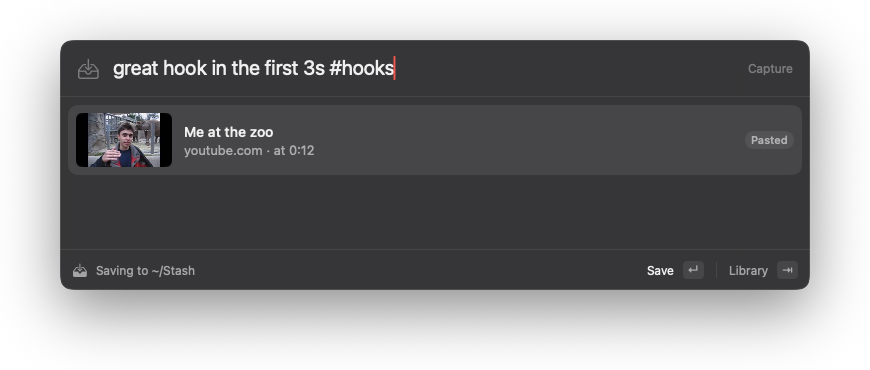
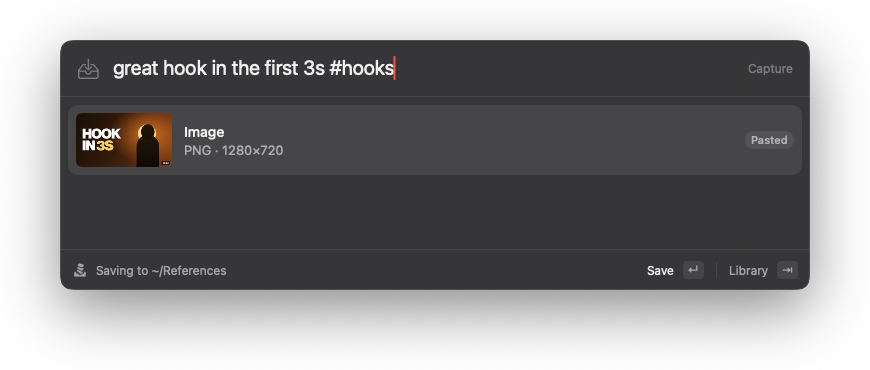
README screenshots with original artwork; newer CI actions
- Retake the Capture, Library and Grid screenshots with a sample library made from the
  promo's original artwork, with metadata fetching off, so they no longer show third-party
  thumbnails or logos.
- DebugHooks: an `image:<path>` token pastes a PNG into Capture from a private pasteboard,
  for staging screenshots without touching the clipboard.
- Bump GitHub Actions (checkout v7, upload-artifact v7, configure/upload/deploy-pages) off the
  deprecated Node 20 runtime.
- Ignore the local .claude/ folder.

Changed region(s): [[0.0621, 0.2973, 0.3724, 0.4757], [0.1862, 0.7135, 0.2793, 0.7432], [0.0621, 0.7135, 0.1241, 0.7432]]

diff --git a/Sources/Stash/App/DebugHooks.swift b/Sources/Stash/App/DebugHooks.swift
@@ -8,7 +8,8 @@ import Carbon.HIToolbox
 /// - `dev.stash.debug.toggle`, object `"capture"` or `"library"`: like pressing the shortcut;
 ///   `"settings"` opens Settings.
 /// - `dev.stash.debug.keys`, object e.g. `"text:hoo down cmd+k esc"`: key presses, in order.
-///   `paste:<text>` pastes into Capture from a private pasteboard (the clipboard isn't touched).
+///   `paste:<text>` pastes into Capture from a private pasteboard (the clipboard isn't touched);
+///   `image:<path>` does the same with a PNG file (the path can't contain spaces).
 @MainActor
 enum DebugHooks {
     static func install(panel: PanelController, openSettings: @escaping () -> Void) {
@@ -30,6 +31,15 @@ enum DebugHooks {
                         let pasteboard = NSPasteboard(name: NSPasteboard.Name("dev.stash.debug.paste"))
                         pasteboard.clearContents()
                         pasteboard.setString(String(token.dropFirst("paste:".count)), forType: .string)
+                        panel.capture.paste(from: pasteboard)
+                        continue
+                    }
+                    if token.hasPrefix("image:") {
+                        let path = String(token.dropFirst("image:".count))
+                        guard let data = FileManager.default.contents(atPath: path) else { continue }
+                        let pasteboard = NSPasteboard(name: NSPasteboard.Name("dev.stash.debug.paste"))
+                        pasteboard.clearContents()
+                        pasteboard.setData(data, forType: .png)
                         panel.capture.paste(from: pasteboard)
                         continue
                     }

diff --git a/README.md b/README.md
@@ -33,7 +33,7 @@ Every reference is a plain Markdown file in a normal folder. No account, no serv
 |---|---|---|
 | ![Capture](docs/screenshots/capture.png) | ![Library](docs/screenshots/library.png) | ![Grid](docs/screenshots/grid.png) |
 
-<sub>Screenshots use the built-in sample data.</sub>
+<sub>Screenshots show sample references; all the artwork in them is original.</sub>
 
 ## Why
 
